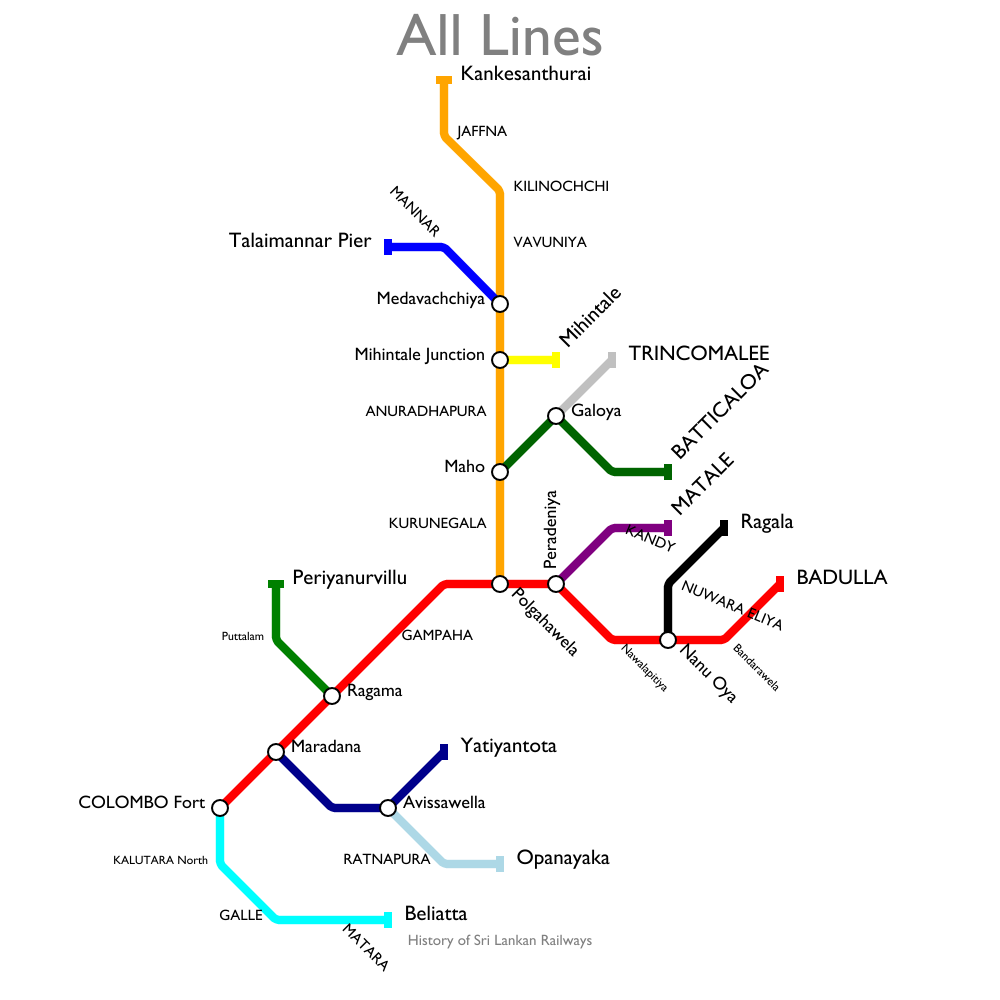
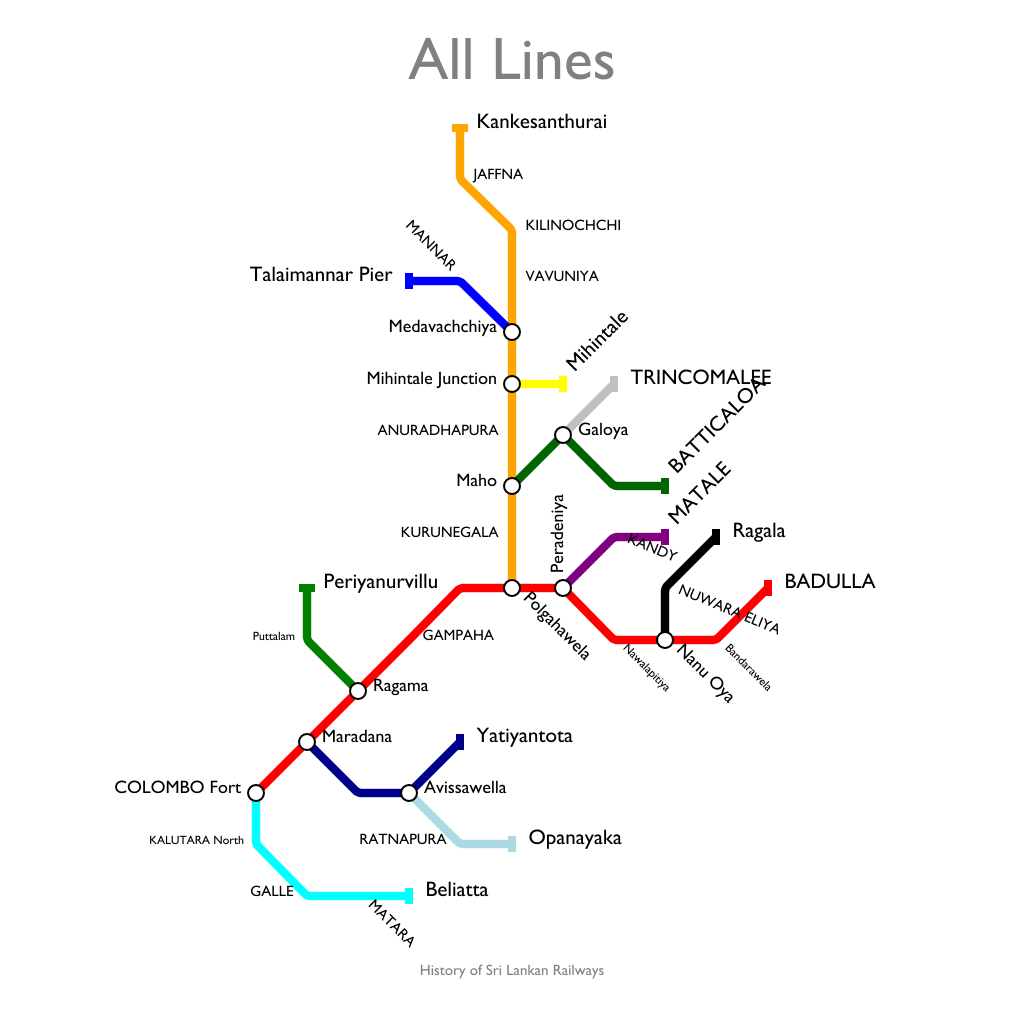
max.json complete

Changed region(s): [[0.093, 0.186, 0.899, 0.961], [0.403, 0.0, 0.62, 0.279], [0.372, 0.403, 0.496, 0.434]]

diff --git a/src/hbd/styler.py b/src/hbd/styler.py
@@ -55,7 +55,7 @@ class Styler:
             font_size=self.FONT_SIZE,
             font_family=self.FONT_FAMILY,
             x=self.DIM / 2,
-            y=self.DIM - (self.PADDING / 2 + self.FONT_SIZE),
+            y=self.DIM - (self.PADDING / 2 - self.FONT_SIZE),
             text_anchor='middle',
             dominant_baseline='text-top',
         )

diff --git a/examples/general.py b/examples/general.py
@@ -22,7 +22,7 @@ if __name__ == '__main__':
         # ),
         Draw(
             Config('data/lk_rail_history/max.json'),
-            Styler(DIM=1000, PADDING=80),
+            Styler(DIM=1024, PADDING=128),
         ),
     ]
     for draw in draw_list:
